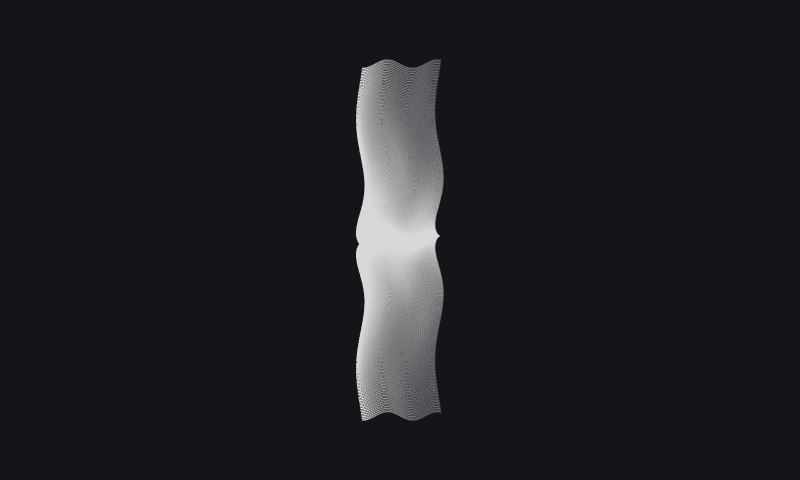
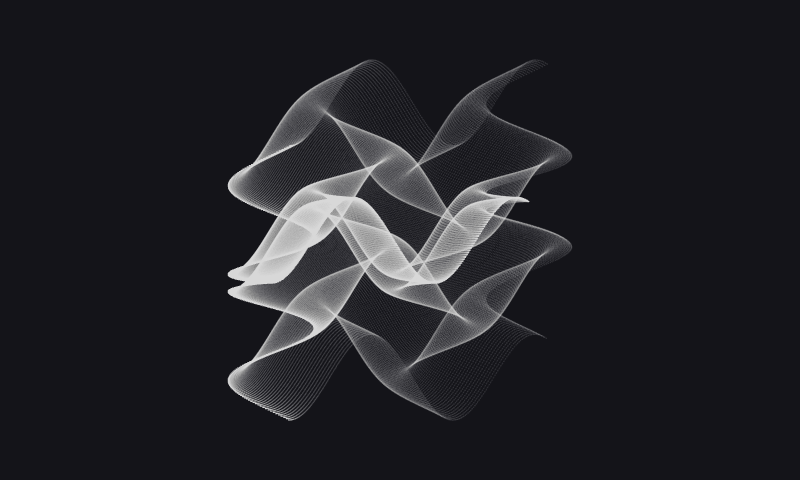
Update README demo image

Changed region(s): [[0.2812, 0.125, 0.7188, 0.875]]

diff --git a/README.md b/README.md
@@ -35,7 +35,7 @@ The display entrypoint also supports `display/show_image.py` for testing with a 
 Prerequisites: Raspberry Pi OS, a connected Inky Impression, network access, and a cloned copy of this repository.
 
 ```sh
-git clone <repository-url> ~/kowalski
+git clone https://github.com/kapman/kowalski-pub.git ~/kowalski
 cd ~/kowalski
 ./scripts/pi/bootstrap.sh
 ```
